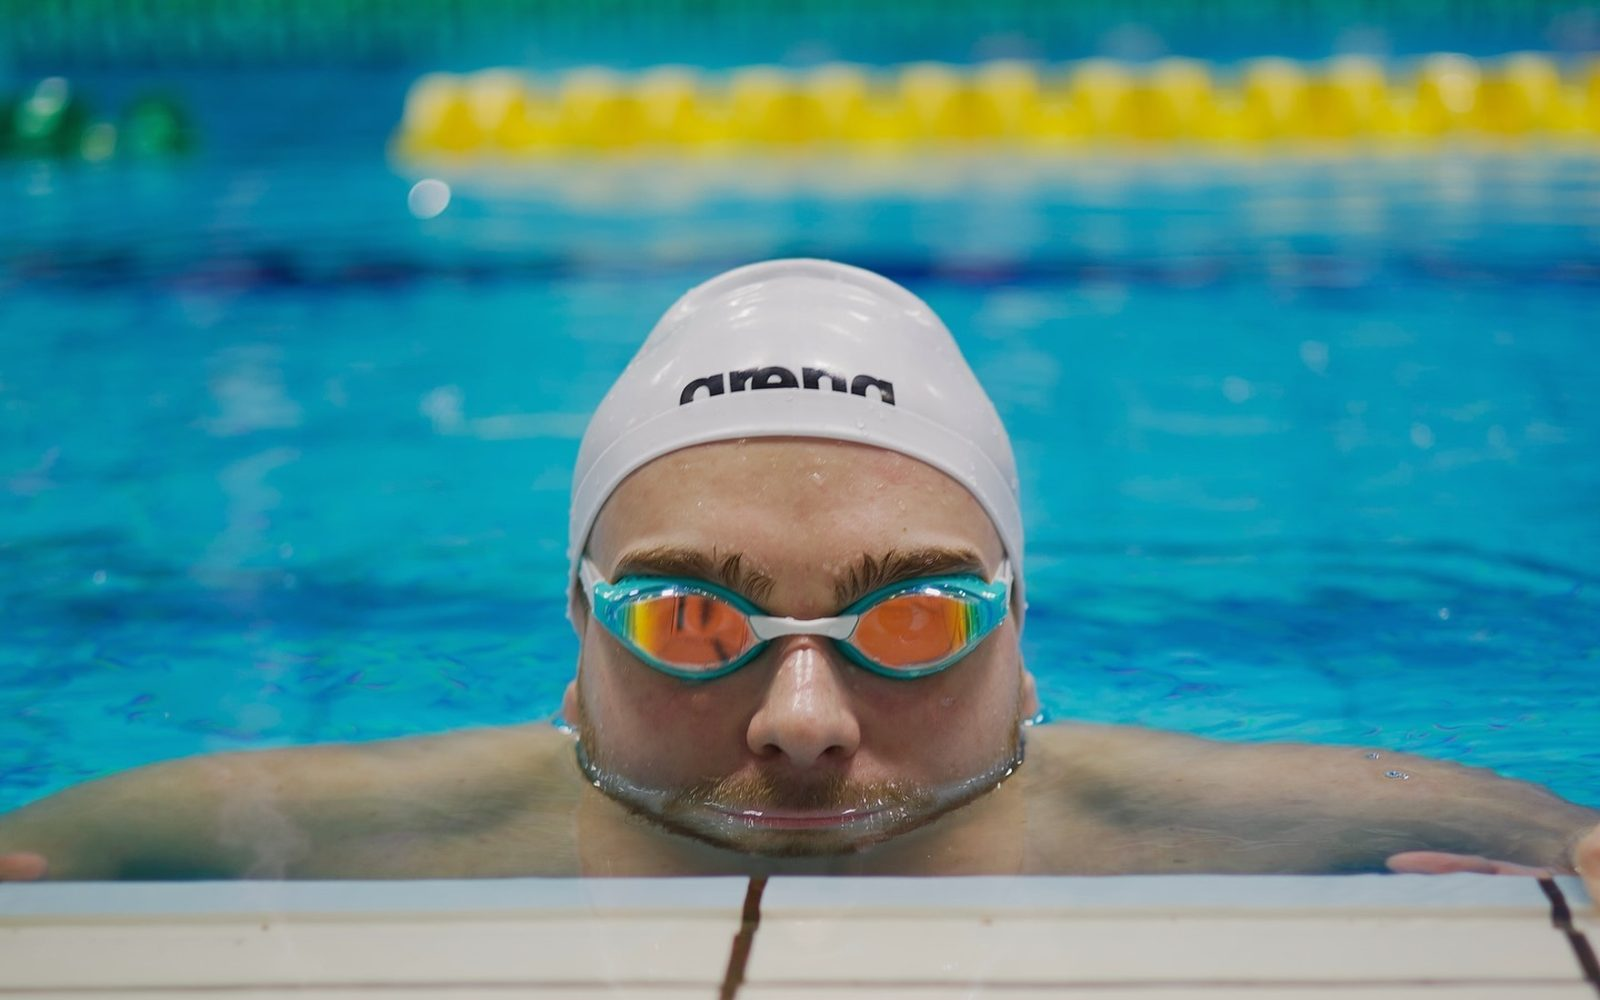
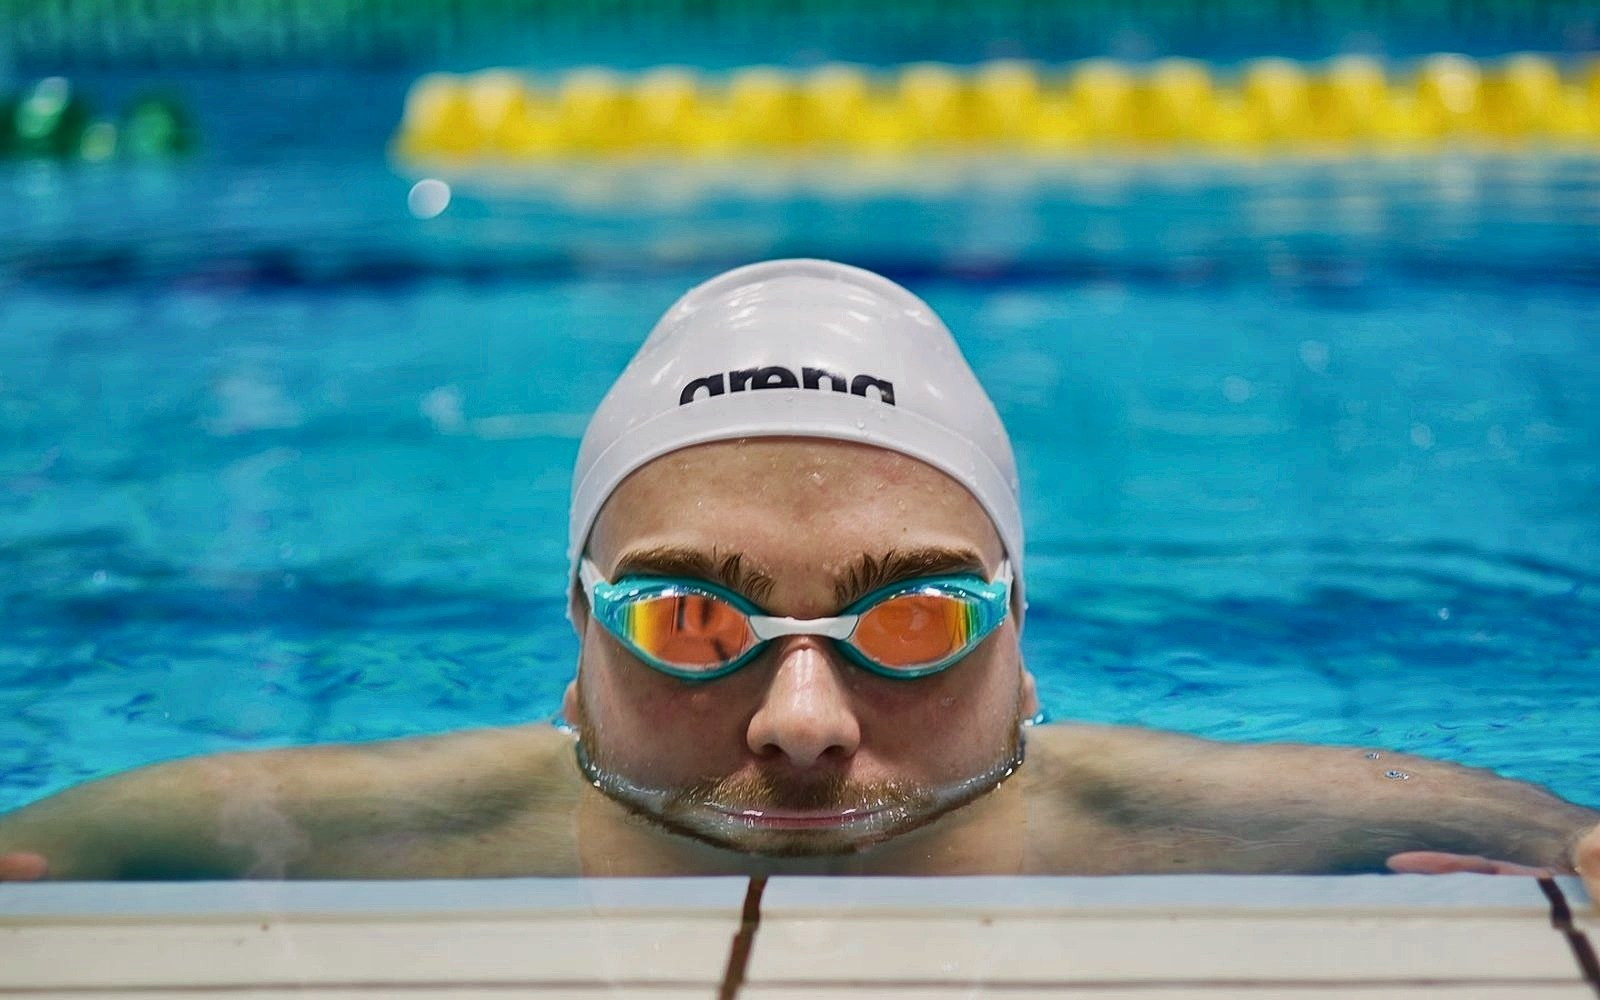
Запись и окна по центру, сияние в центре; цветокоррекция фото первого экрана без изменения лиц

diff --git a/index.html b/index.html
@@ -20,7 +20,7 @@
   <meta name="twitter:card" content="summary_large_image">
   <link rel="preload" href="fonts/inter-cyrillic.woff2" as="font" type="font/woff2" crossorigin>
     <script>document.documentElement.classList.add('js')</script>
-  <link rel="stylesheet" href="css/style.css?v=1789488577">
+  <link rel="stylesheet" href="css/style.css?v=1789488929">
   <script type="application/ld+json">
   {"@context": "https://schema.org", "@graph": [{"@type": "Person", "@id": "https://akifevav0-droid.github.io/shabarshov/#person", "name": "Анатолий Шабаршов", "jobTitle": "Тренер по плаванию", "description": "Мастер спорта по плаванию, тренер для взрослых. Групповые и персональные тренировки в Москве, подготовка к открытой воде и триатлону.", "url": "https://akifevav0-droid.github.io/shabarshov/", "image": "https://akifevav0-droid.github.io/shabarshov/img/anatoliy_hero.jpg", "sameAs": ["https://profi.ru/profile/ShabarshovAS/", "https://www.instagram.com/shabarshov_/", "https://t.me/shabarshov", "https://t.me/shabarshov_club"], "address": {"@type": "PostalAddress", "addressLocality": "Москва", "addressCountry": "RU"}, "alumniOf": ["Училище олимпийского резерва", "РГУФК (РГУФКСМиТ)"], "award": ["Мастер спорта по плаванию", "Всемирные игры Masters, Абу-Даби 2026: 2-е и 3-е места"]}, {"@type": "SportsOrganization", "@id": "https://akifevav0-droid.github.io/shabarshov/#club", "name": "SHABARSHOV swimming club", "url": "https://akifevav0-droid.github.io/shabarshov/", "founder": {"@id": "https://akifevav0-droid.github.io/shabarshov/#person"}, "areaServed": "Москва", "sport": "Плавание", "makesOffer": [{"@type": "Offer", "price": "0", "priceCurrency": "RUB", "itemOffered": {"@type": "Service", "name": "Пробная тренировка по плаванию"}}, {"@type": "Offer", "price": "13600", "priceCurrency": "RUB", "itemOffered": {"@type": "Service", "name": "Абонемент на 8 групповых тренировок"}}, {"@type": "Offer", "price": "7500", "priceCurrency": "RUB", "itemOffered": {"@type": "Service", "name": "Абонемент на 4 групповые тренировки"}}, {"@type": "Offer", "price": "2000", "priceCurrency": "RUB", "itemOffered": {"@type": "Service", "name": "Разовая групповая тренировка"}}, {"@type": "Offer", "price": "3000", "priceCurrency": "RUB", "description": "от 3 000 ₽ + проход в бассейн", "itemOffered": {"@type": "Service", "name": "Персональная тренировка по плаванию"}}, {"@type": "Offer", "price": "3500", "priceCurrency": "RUB", "description": "за час", "itemOffered": {"@type": "Service", "name": "Тренировка на открытой воде"}}]}, {"@type": "SportsActivityLocation", "@id": "https://akifevav0-droid.github.io/shabarshov/#pool1", "name": "Бассейн СК МГТУ им. Баумана", "sport": "Плавание", "parentOrganization": {"@id": "https://akifevav0-droid.github.io/shabarshov/#club"}, "address": {"@type": "PostalAddress", "streetAddress": "Госпитальная наб., 4, стр. 1", "addressLocality": "Москва", "addressCountry": "RU"}, "openingHoursSpecification": [{"@type": "OpeningHoursSpecification", "dayOfWeek": ["Monday", "Thursday"], "opens": "19:45"}, {"@type": "OpeningHoursSpecification", "dayOfWeek": ["Monday", "Thursday"], "opens": "20:30"}], "description": "Группы: 19:45 средний и продвинутый уровень, 20:30 начинающий и средний, м. Электрозаводская"}, {"@type": "SportsActivityLocation", "@id": "https://akifevav0-droid.github.io/shabarshov/#pool2", "name": "Формула Воды", "sport": "Плавание", "parentOrganization": {"@id": "https://akifevav0-droid.github.io/shabarshov/#club"}, "address": {"@type": "PostalAddress", "streetAddress": "Мироновская ул., 27, стр. 2", "addressLocality": "Москва", "addressCountry": "RU"}, "openingHoursSpecification": [{"@type": "OpeningHoursSpecification", "dayOfWeek": ["Tuesday", "Friday"], "opens": "20:45"}], "description": "Группа начинающего и среднего уровня, м. Семёновская"}, {"@type": "SportsActivityLocation", "@id": "https://akifevav0-droid.github.io/shabarshov/#pool3", "name": "Акватория ЗИЛ", "sport": "Плавание", "parentOrganization": {"@id": "https://akifevav0-droid.github.io/shabarshov/#club"}, "address": {"@type": "PostalAddress", "streetAddress": "Автозаводская ул., 23А к4", "addressLocality": "Москва", "addressCountry": "RU"}, "openingHoursSpecification": [{"@type": "OpeningHoursSpecification", "dayOfWeek": ["Wednesday", "Friday"], "opens": "07:45"}], "description": "Мини-группа до 5 человек"}, {"@type": "SportsActivityLocation", "@id": "https://akifevav0-droid.github.io/shabarshov/#pool4", "name": "Лужники", "sport": "Плавание", "parentOrganization": {"@id": "https://akifevav0-droid.github.io/shabarshov/#club"}, "address": {"@type": "PostalAddress", "addressLocality": "Москва", "addressCountry": "RU"}, "description": "Персональные тренировки по договорённости, м. Спортивная"}, {"@type": "FAQPage", "mainEntity": [{"@type": "Question", "name": "Я не умею плавать. С чего начать?", "acceptedAnswer": {"@type": "Answer", "text": "С бесплатной пробной тренировки. За первое занятие вы подружитесь с водой и станете увереннее. Дальше подберём формат: группу по уровню или персональные занятия."}}, {"@type": "Question", "name": "Что взять на первую тренировку?", "acceptedAnswer": {"@type": "Answer", "text": "Справку для бассейна (как получить, расскажу при записи), купальник или плавки, шапочку, очки, сланцы, полотенце."}}, {"@type": "Question", "name": "Как проходит тренировка?", "acceptedAnswer": {"@type": "Answer", "text": "Час в воде: разминка, основное задание, заминка. Я в воде рядом и показываю упражнения сам."}}, {"@type": "Question", "name": "Что, если пропущу занятие?", "acceptedAnswer": {"@type": "Answer", "text": "Предупредите заранее, и найдём, как отработать. Пропуск без предупреждения не переносится."}}]}]}
   </script>

diff --git a/css/style.css b/css/style.css
@@ -1533,3 +1533,20 @@ main h2:not(.cap h2), .end__title { color: #4E4868 !important; font-weight: 500 
   .citymap .mpin.is-open .mpin__img { aspect-ratio: 16 / 10 !important; height: auto !important; }
   .citymap .mpin.is-open .mpin__acts a { background: rgba(255, 255, 255, .92) !important; color: #2C2A3A !important; box-shadow: 0 6px 16px -6px rgba(20, 18, 30, .45), inset 0 0 0 1px rgba(255, 255, 255, .9) !important; }
 }
+
+/* ===== Запись: всё по центру — на странице и в окнах ===== */
+#zapis .end__in { display: flex !important; flex-direction: column; align-items: center; text-align: center !important; }
+#zapis .end__title { order: 1; align-self: center !important; margin: 0 auto 14px !important; max-width: 14em !important; text-align: center !important; }
+#zapis .end__note { order: 2; margin: 0 auto 36px !important; max-width: 30em; text-align: center !important; }
+#zapis .qz { order: 3; width: 100%; max-width: 580px !important; margin: 0 auto !important; }
+#zapis .foot { order: 4; }
+.qz fieldset { justify-content: center; }
+.qz legend { text-align: center; }
+.qz .qz__preview { text-align: center; }
+#sheet .sheet__box:has(.qz--sheet) { text-align: center !important; }
+#sheet .sheet__title, #sheet .sheet__sub { text-align: center !important; }
+#sheet .sheet__sub { margin-left: auto !important; margin-right: auto !important; max-width: 24em !important; }
+#prices .sheet__title, #prices .pr__note { text-align: center; }
+#prices .pq__h { text-align: center; }
+@media (max-width: 734px) { #zapis .end__note { margin-bottom: 28px !important; } #sheet .sheet__sub { margin: 4px auto 18px !important; } }
+#zapis.hero--end { background: radial-gradient(34% 30% at 32% 58%, rgba(160, 138, 214, .26) 0%, rgba(160, 138, 214, 0) 70%), radial-gradient(30% 28% at 70% 66%, rgba(122, 170, 230, .18) 0%, transparent 70%), radial-gradient(40% 22% at 50% 22%, rgba(190, 176, 230, .16) 0%, transparent 70%), linear-gradient(180deg, #FFFFFF 0%, #F4F2F8 100%) !important; }
